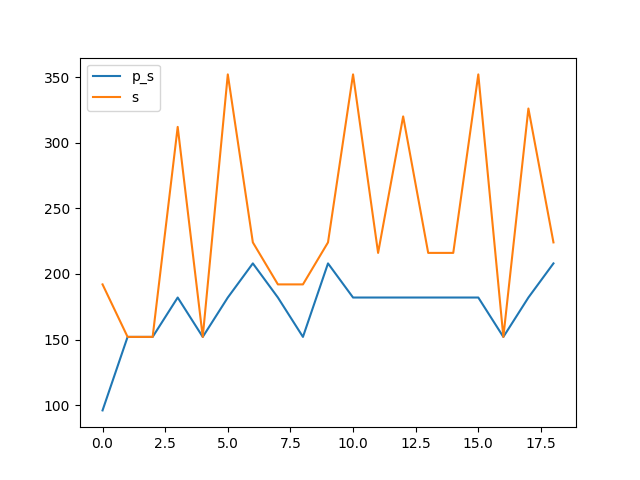
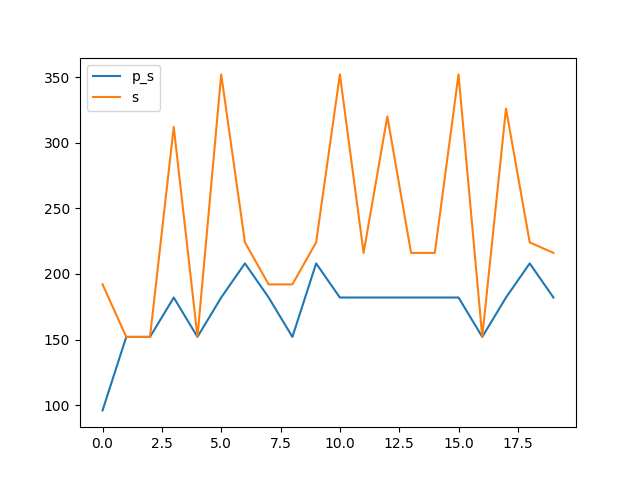
0x0013

diff --git a/benchmark.md b/benchmark.md
@@ -38,6 +38,8 @@ Synthesising 0x0011 pexact:182 r=4 exact:326 r=4
 
 Synthesising 0x0012 pexact:208 r=4 exact:224 r=3
 
+Synthesising 0x0013 pexact:182 r=4 exact:216 r=3
+
 ![image1](benchmark_r.png?)
 
 ![image2](benchmark_s.png?)
